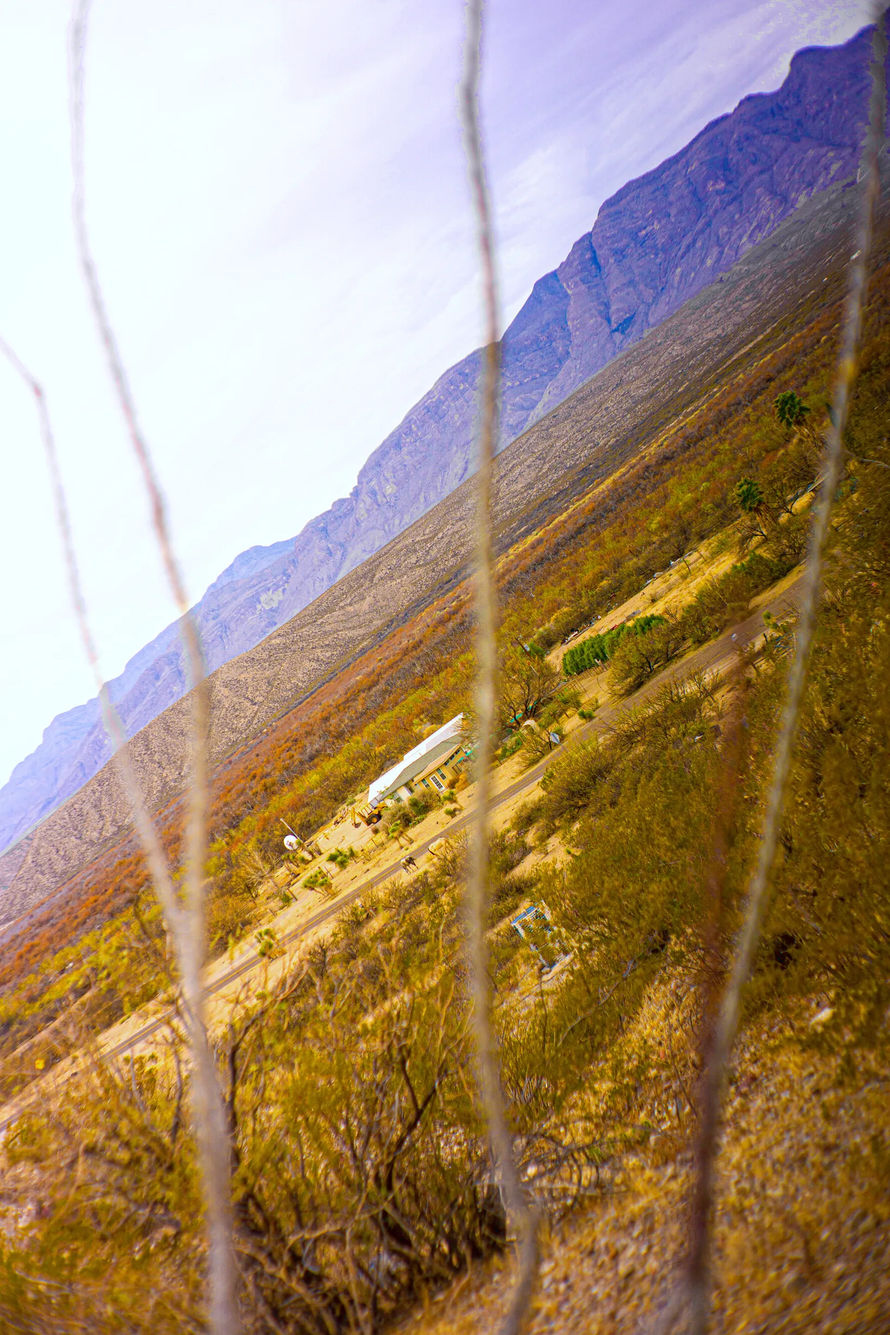
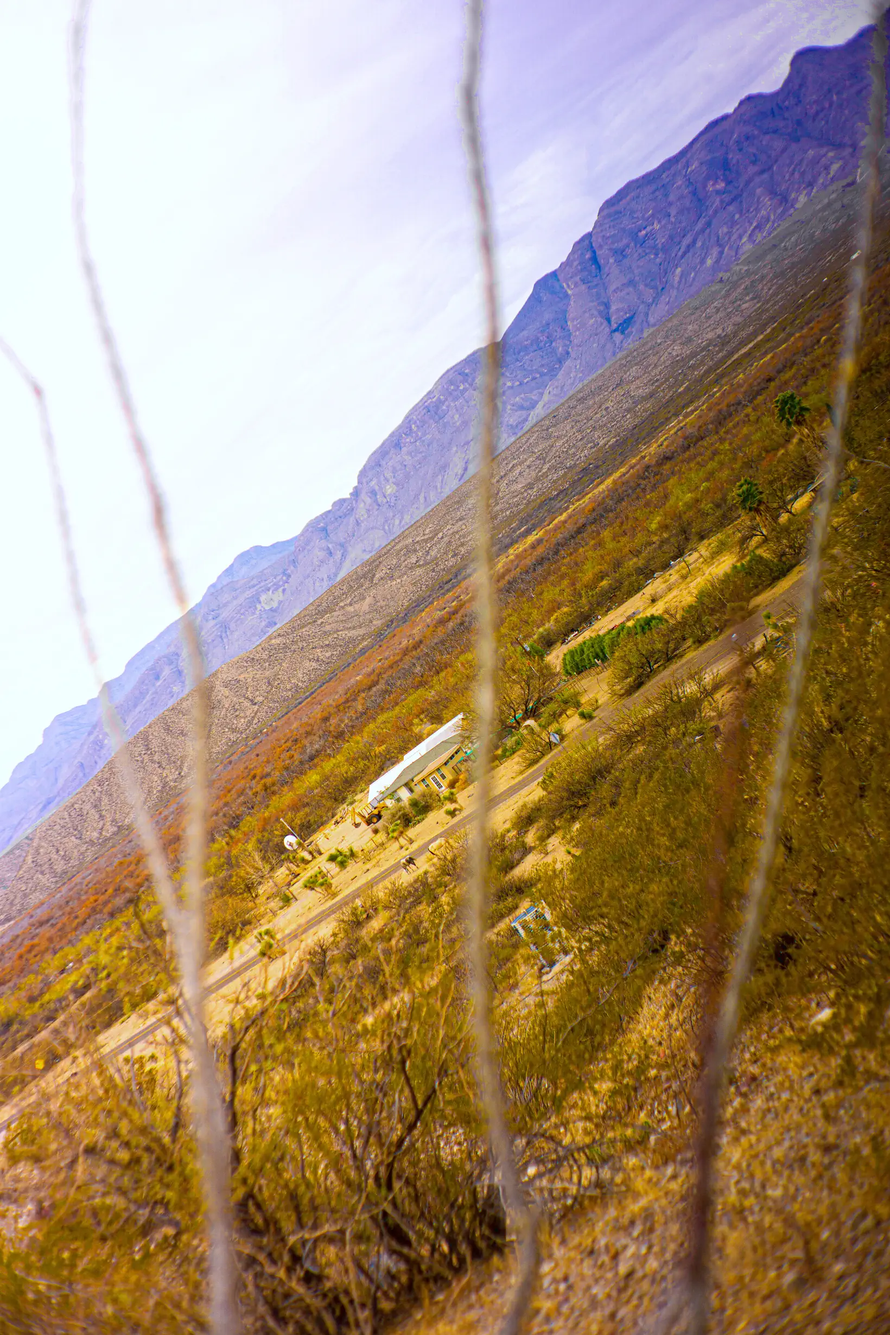
Re-encode the two heaviest gallery photos at WebP quality 60
the-getty-2 and ocotillo-sideways drop from 8.7 MB to 5.3 MB across
all widths, with no visible difference.

Claude-Session: https://claude.ai/code/session_01GwWXVdn39QjTJtBnRAceRK

diff --git a/CLAUDE.md b/CLAUDE.md
@@ -26,7 +26,7 @@ All scripts are dependency-free Node except `photos.mjs` (`sharp`, `exiftool-ven
 - **Styling**: `shared/css/base.css` (reset, view transition), `book.css` (the shared book theme: Cormorant Garamond faces, paper and ink tokens, headings, `.toc` leaders, `.ornament`, `.running-head`, `.chapter` opener, `.book-page`; historical ligatures only in epigraphs and the colophon), plus the shared list-of-works styles (`ol.works`: title with dotted leaders to a short date, then an indented italic source and small-caps type), used by Published Writing and the Code projects alike; then one file per page where needed (`home`, `photos`, `code`, `404`; `resume` and `resume-print` serve only the archived résumés). Pages list `["book"]` plus their own file, if any, in their `css`. Colors are `light-dark()` tokens.
 - **Book theme** (October 2026): the whole site reads as a book. Home is the cover, then a contents page (chapters 1–3 match Published Writing, Photography, Code), an epigraph and a colophon. Inner pages are chapters with a running head and a "Chapter N" opener: Published Writing as a list of works, Photography as a borderless justified mosaic (rows of equal height, each photo at its own aspect ratio via `--r` on each item and flex-grow; title and month on hover or focus, hidden from screen readers since the alt text already names the photo) with a full-screen `<dialog>` lightbox (`site/js/gallery.js`: no frame, previous/next fixed to the screen edges so they don't move between photos, arrow keys, Esc or a click outside the photo to close, focus back on the thumbnail; each thumbnail is also a plain link to the full image without JS), Code as a list of works plus the epigraph and colophon, and the 404 as an erratum slip. Everything is set in Cormorant Garamond, subset from the Google Fonts source with all OpenType features kept (small caps, old-style figures, historical ligatures) plus curly quotes, dashes and the fleuron ❦; license in `site/static/fonts/licenses/`. The files are `cormorant-garamond-2.woff2` and `-italic-2` (renamed when ↗ was added, because fonts are cached as immutable). External links get a small ↗ from `book.css` (on the entry name for leader lists, on the publication for Published Writing), announced as ", external". Email links get a small envelope (a CSS mask, since the font has no envelope glyph), announced as ", email". Fontsource builds strip those features, so re-subset from the source with `pyftsubset` if the font changes. Don't animate the cover's opacity: Lighthouse then finds no LCP and scores performance 0.
 - **Fonts** are self-hosted under `site/static/fonts/` with `unicode-range` subsets and `size-adjust` local fallbacks. They’re cached as immutable, so a changed font needs a new file name. `check.mjs` fails on any character outside the shipped ranges (add a `facts.json` `allowedChars` list only for characters that should fall back on purpose). `cormorant` and `noto-sans` remain only for the archived résumés.
-- **Gallery**: source JPGs in `photos/` (not deployed). After adding, removing or re-captioning a photo, run `npm install`, then `node photos.mjs`: it reads Title, Description (the alt text) and CreateDate with ExifTool, generates missing WebPs in `site/img/photos/`, deletes orphans, and rewrites the gallery between `<!-- gallery -->` markers in `site/photos/index.html`, newest first. Then sync, check, commit.
+- **Gallery**: source JPGs in `photos/` (not deployed). After adding, removing or re-captioning a photo, run `npm install`, then `node photos.mjs`: it reads Title, Description (the alt text) and CreateDate with ExifTool, generates missing WebPs in `site/img/photos/`, deletes orphans, and rewrites the gallery between `<!-- gallery -->` markers in `site/photos/index.html`, newest first. Then sync, check, commit. The WebPs of `the-getty-2` and `ocotillo-sideways` were re-encoded by hand at quality 60 (`effort: 6`, `preset: "photo"`), about 40% smaller; photos.mjs keeps existing files, but if they are ever deleted, re-encode them the same way.
 - **Lighthouse panel**: `node lighthouse.mjs 98 "0 ms" "1.5 s" "2.3 s"` (score, blocking time, speed index, time to interactive, from a mobile Lighthouse run) writes `shared/lighthouse.html`, shown in every colophon; with no numbers it calls PageSpeed Insights (`PSI_KEY` env var). Then sync, commit, deploy. Current numbers are from a local run on 2026-10-17.
 - **Scripts**: `site/js/quote.js` is an ES module holding the quotes array and the generator (loaded by the end matter on every page; shows the first quote on localhost). Script files load as `type="module"`; classic inline scripts (the prefetch fallback in `head.html`) are wrapped in a self-calling function. `check.mjs` enforces both.
 - **`check.mjs`** verifies sync is current, one `<h1>` and `<main id="main-content">` per page, unique ids and id references, alt text, links and asset paths (page links end in `/`), CSS syntax, emails against `facts.json`, font coverage, robots.txt, no moving masks, module scripts, no hosts outside `allowedHosts`, and the gzipped size budget.

diff --git a/docs/handoff.md b/docs/handoff.md
@@ -35,7 +35,6 @@ Decided 2026-10-17: keep Workers Builds (every push to `main` deploys after `npm
 - A Content-Security-Policy header (needs hashes for the two inline head scripts, which `sync.mjs` would compute).
 - Redirects for the old `/_astro/*` gallery image URLs (87 rules), only for old image-search hits.
 - A notification when a new repo is waiting for approval.
-- Re-encode the few very heavy photos (`the-getty-2`, `ocotillo-sideways`) at a lower WebP quality. Delete their WebPs and rerun `photos.mjs`.
 - The roadmap: an About the Author page, and résumés from the Find a Job project (`ROADMAP.md`).
 
 ## How the work was done
